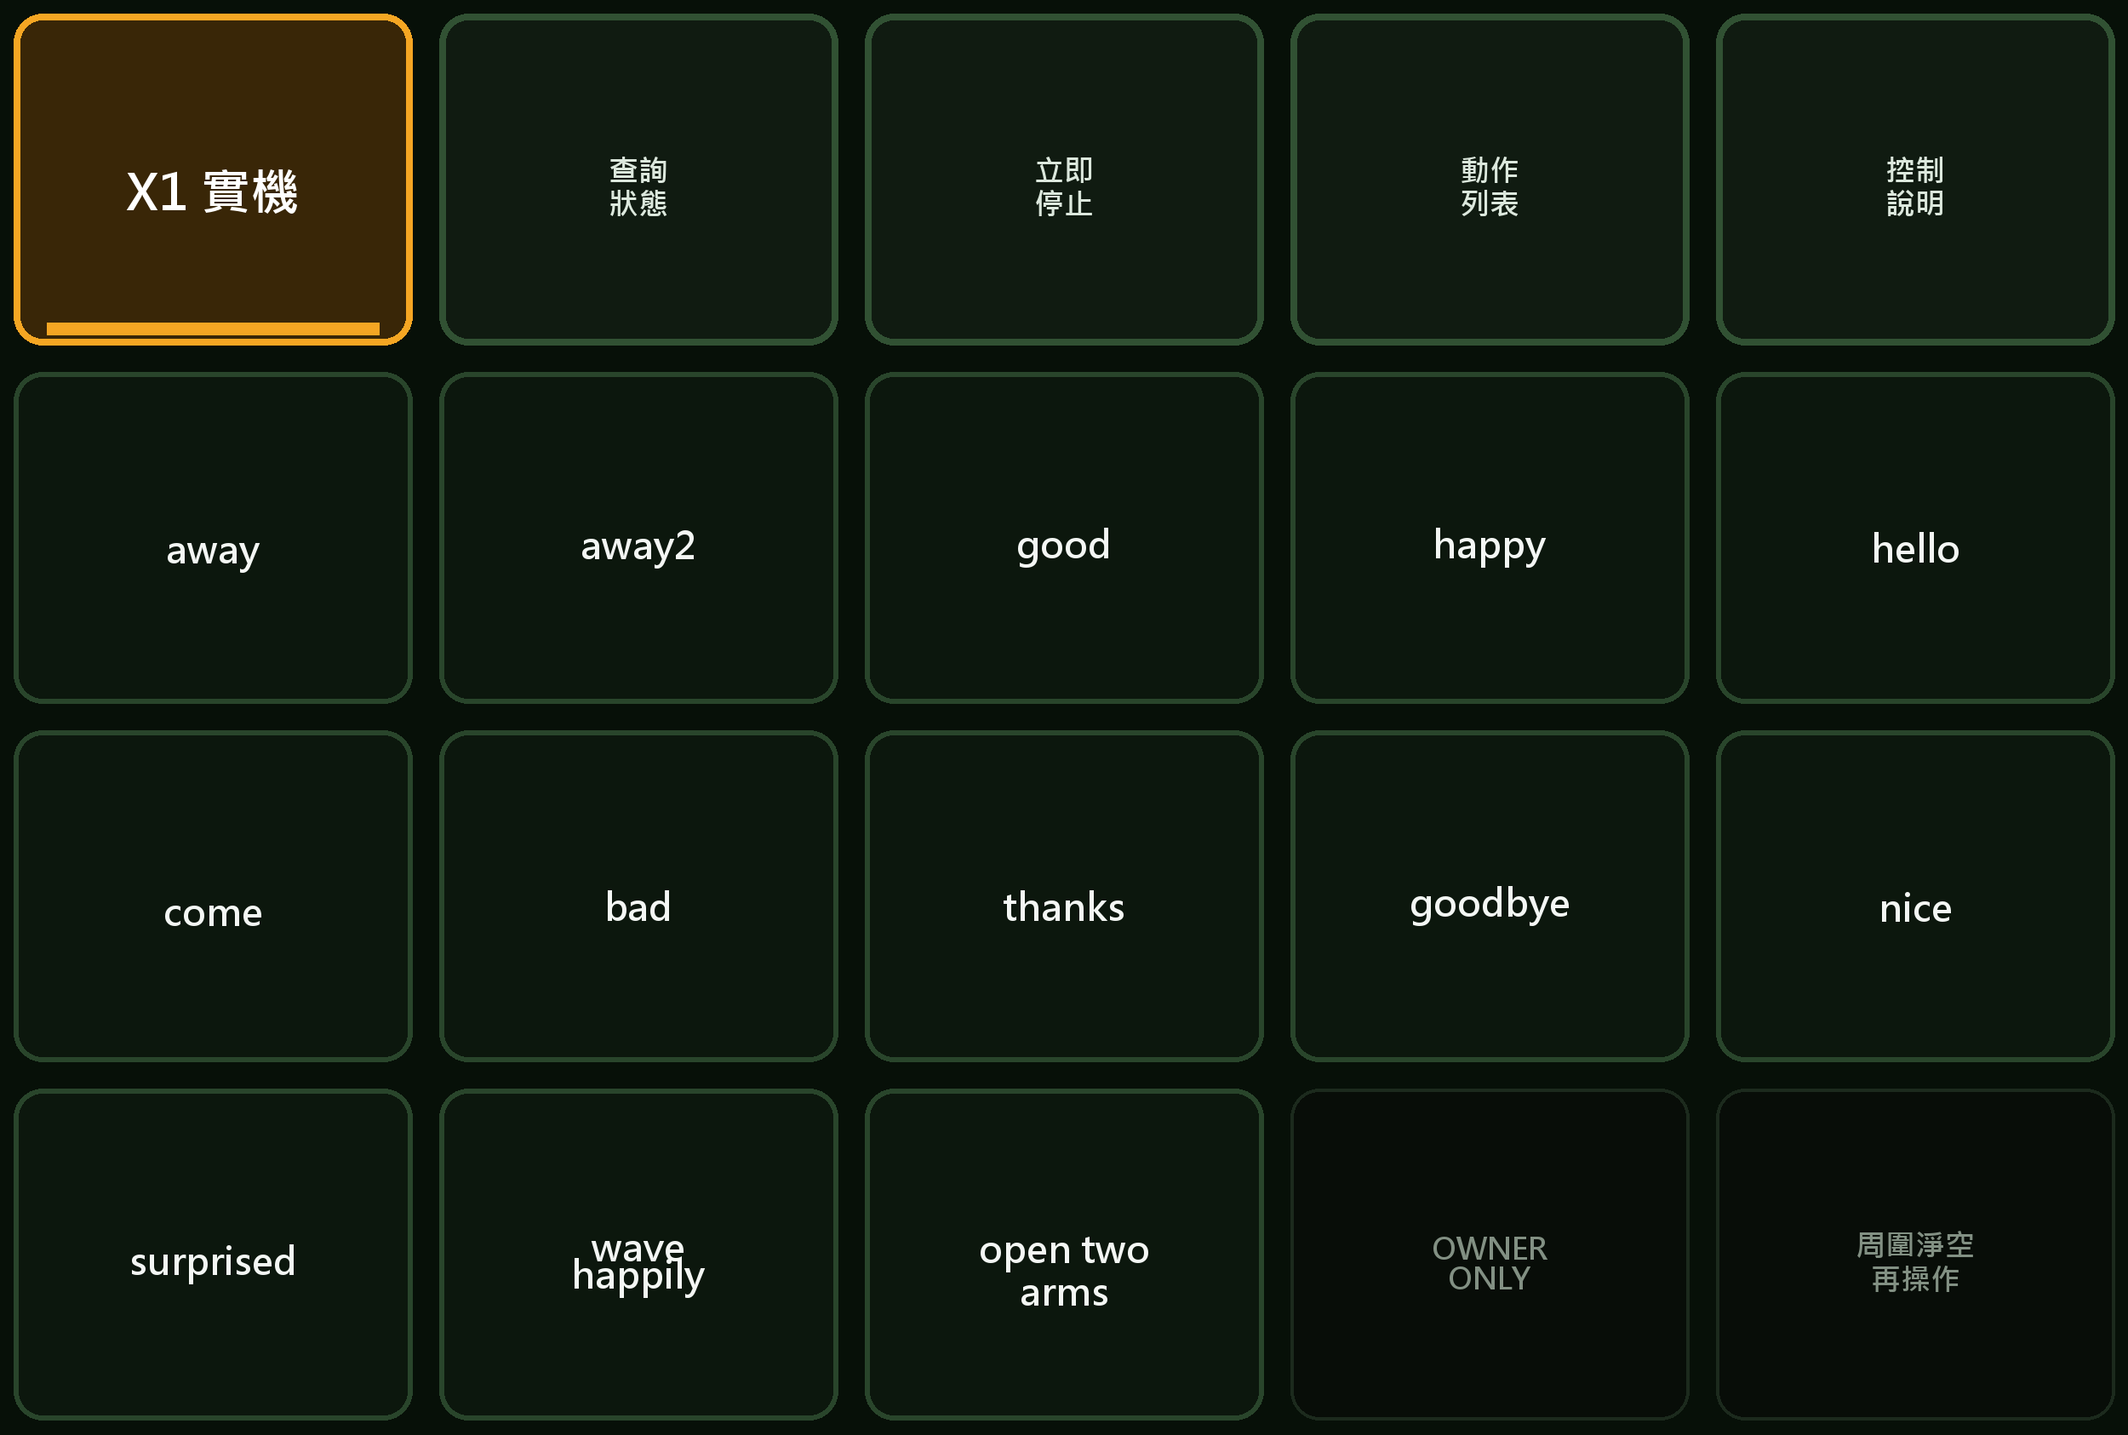
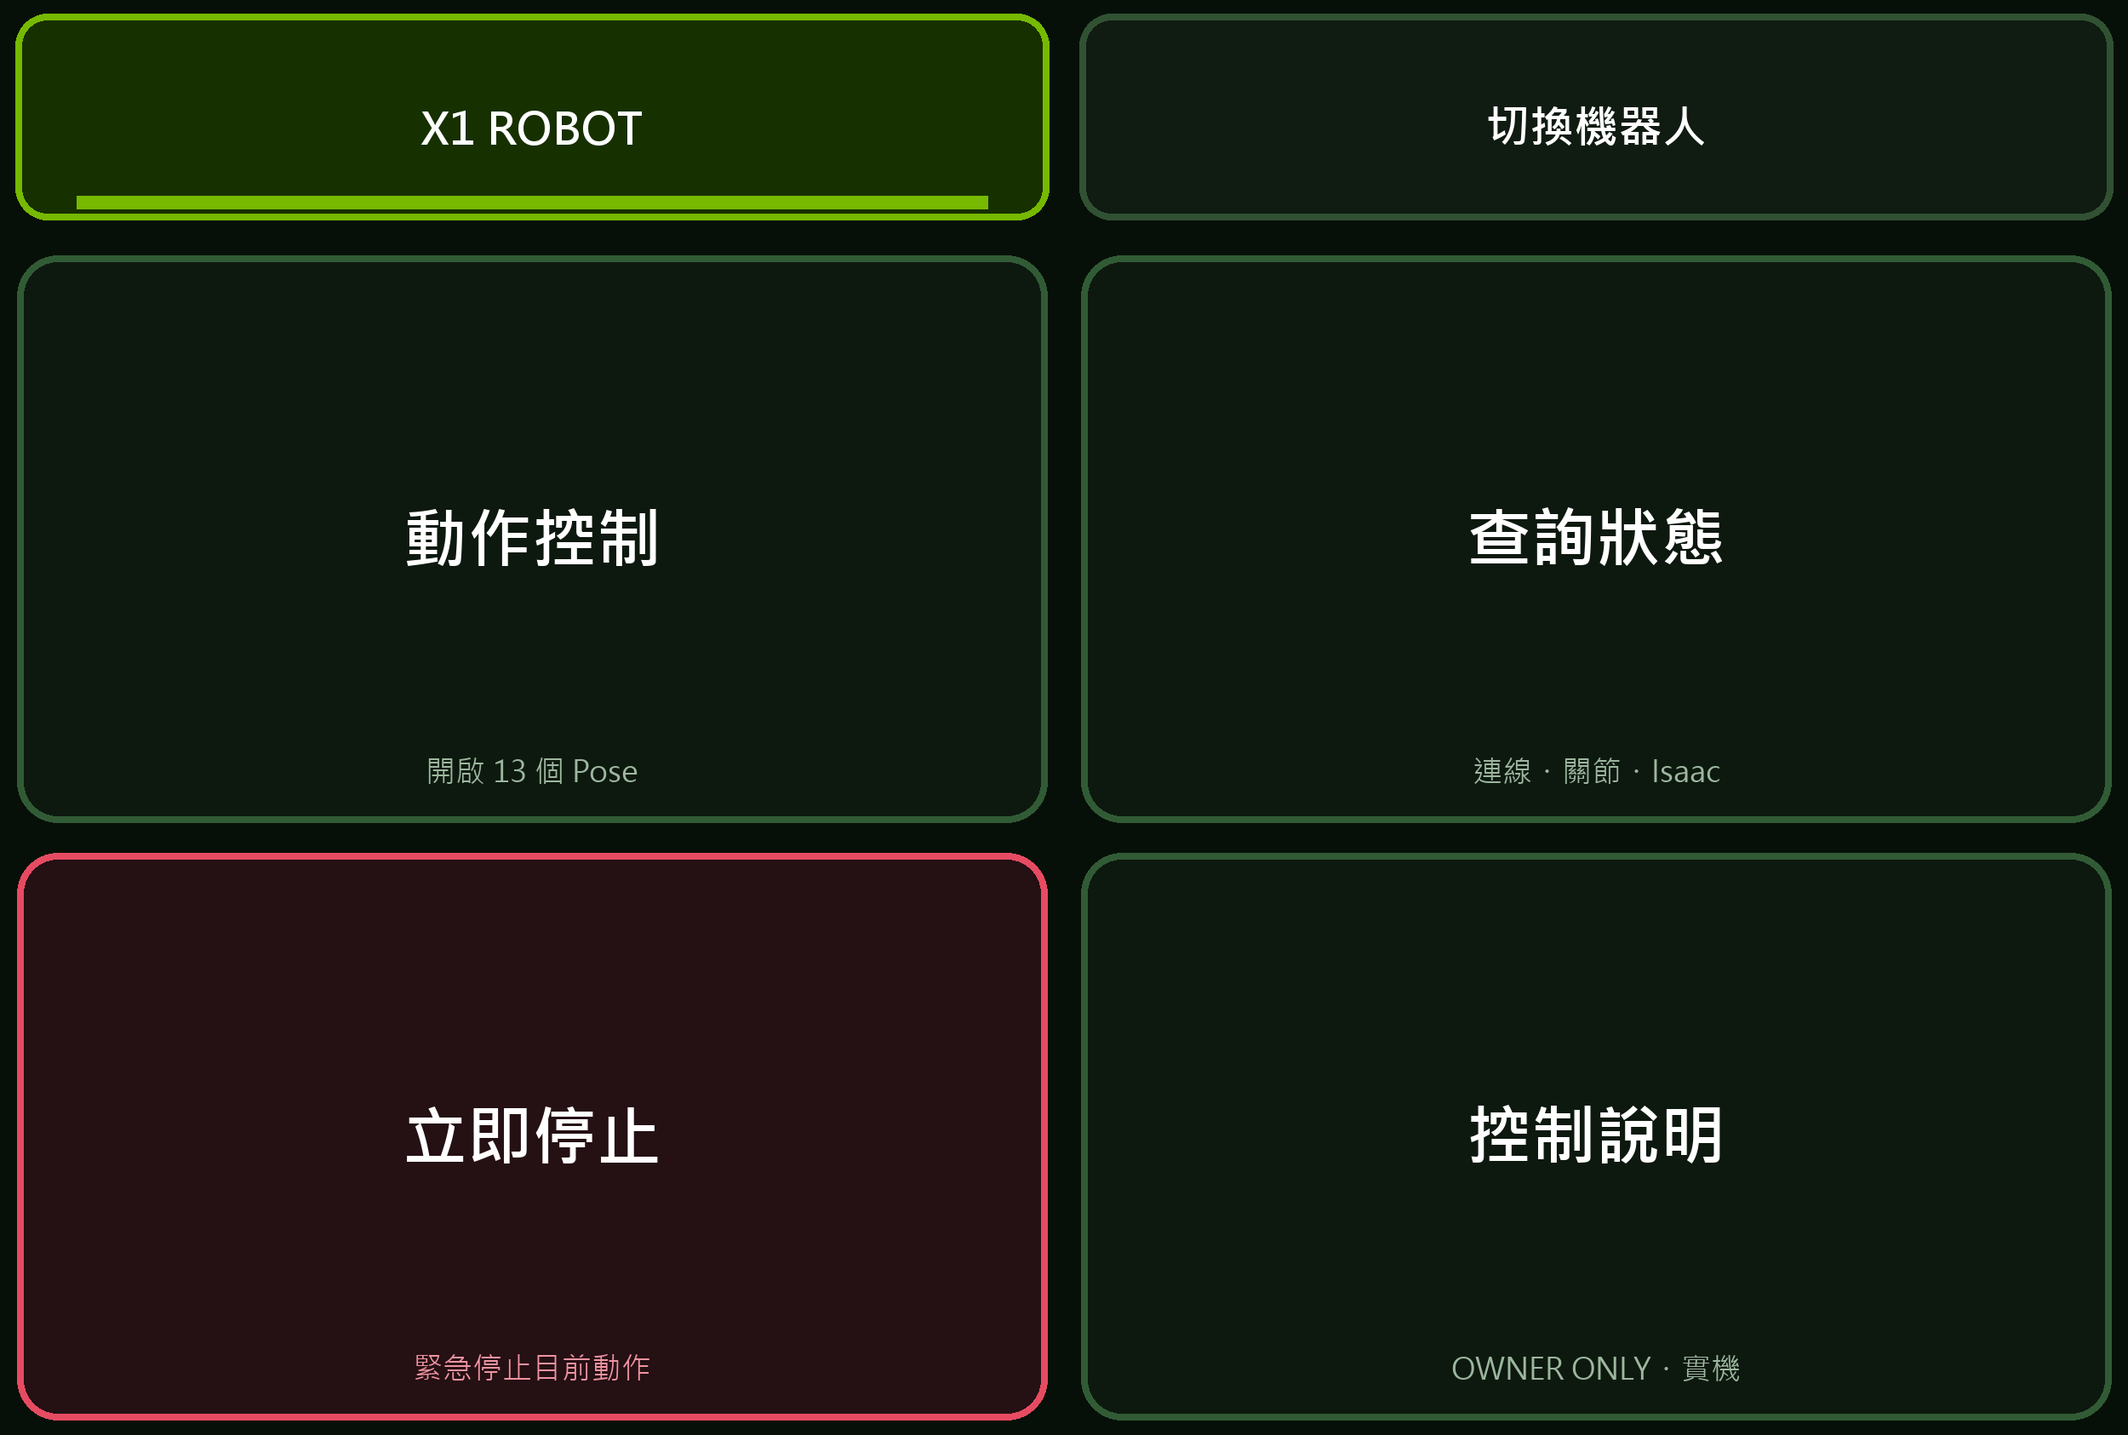
Redesign X1 Rich Menu with large controls

diff --git a/api/shared/line_bot.py b/api/shared/line_bot.py
@@ -994,6 +994,116 @@ def robot_pose_confirmation(robot: str, pose: str) -> dict[str, Any]:
     }
 
 
+def robot_pose_catalog(robot: str, poses: tuple[dict[str, Any], ...]) -> dict[str, Any]:
+    """Present physical poses as large, swipeable Flex cards instead of tiny menu cells."""
+    if robot != "x1" or not 1 <= len(poses) <= 20:
+        raise ValueError("invalid robot pose catalog")
+    validated: list[tuple[str, str]] = []
+    for pose in poses:
+        pose_id = str(pose.get("id", ""))
+        label = str(pose.get("label", pose_id))
+        if not re.fullmatch(r"[a-z0-9-]{1,32}", pose_id) or not 1 <= len(label) <= 20:
+            raise ValueError("invalid robot pose")
+        validated.append((pose_id, label))
+    groups = [validated[index:index + 6] for index in range(0, len(validated), 6)]
+    bubbles = []
+    for page, group in enumerate(groups, start=1):
+        cells = []
+        for pose_id, label in group:
+            cells.append({
+                "type": "box",
+                "layout": "vertical",
+                "height": "96px",
+                "backgroundColor": "#EAF4EA",
+                "cornerRadius": "12px",
+                "paddingAll": "12px",
+                "justifyContent": "center",
+                "action": {
+                    "type": "postback",
+                    "label": label,
+                    "data": f"action=robot_pose&robot={robot}&pose={pose_id}&preview=0",
+                    "displayText": f"X1 實機動作：{pose_id}",
+                },
+                "contents": [{
+                    "type": "text", "text": label, "weight": "bold", "size": "md",
+                    "color": "#163C1A", "align": "center", "wrap": True,
+                }],
+            })
+        rows = []
+        for index in range(0, 6, 2):
+            row_cells = cells[index:index + 2]
+            while len(row_cells) < 2:
+                row_cells.append({
+                    "type": "box", "layout": "vertical", "height": "96px",
+                    "backgroundColor": "#F5F7F5", "cornerRadius": "12px",
+                    "contents": [],
+                })
+            rows.append({
+                "type": "box", "layout": "horizontal", "spacing": "md",
+                "margin": "md" if rows else "none", "contents": row_cells,
+            })
+        bubbles.append({
+            "type": "bubble",
+            "size": "mega",
+            "header": {
+                "type": "box", "layout": "vertical", "backgroundColor": "#102712",
+                "paddingAll": "20px",
+                "contents": [
+                    {"type": "text", "text": "X1 實機動作", "weight": "bold",
+                     "size": "xl", "color": "#FFFFFF"},
+                    {"type": "text", "text": f"POSE {page} / {len(groups)}",
+                     "size": "xs", "color": "#9FCA9F", "margin": "sm"},
+                ],
+            },
+            "body": {
+                "type": "box", "layout": "vertical", "paddingAll": "18px",
+                "contents": rows,
+            },
+            "footer": {
+                "type": "box", "layout": "vertical", "paddingAll": "16px",
+                "contents": [{"type": "text", "text": "點選後仍需再次確認實機動作",
+                              "size": "xs", "color": "#777777", "wrap": True}],
+            },
+        })
+    return {
+        "type": "flex",
+        "altText": "X1 實機動作列表",
+        "contents": {"type": "carousel", "contents": bubbles},
+    }
+
+
+def robot_selector_flex() -> dict[str, Any]:
+    """Robot tab target; more robots can be added without changing the menu layout."""
+    return {
+        "type": "flex",
+        "altText": "選擇機器人",
+        "contents": {
+            "type": "bubble",
+            "size": "mega",
+            "header": {
+                "type": "box", "layout": "vertical", "backgroundColor": "#102712",
+                "paddingAll": "20px",
+                "contents": [{"type": "text", "text": "選擇機器人", "weight": "bold",
+                              "size": "xl", "color": "#FFFFFF"}],
+            },
+            "body": {
+                "type": "box", "layout": "vertical", "paddingAll": "20px",
+                "contents": [
+                    {"type": "text", "text": "目前已啟用", "size": "sm",
+                     "color": "#777777"},
+                    {"type": "button", "style": "primary", "height": "sm",
+                     "color": "#245B2A", "margin": "md",
+                     "action": {"type": "postback", "label": "X1 ROBOT",
+                                "data": "action=robot_control&robot=x1&command=help",
+                                "displayText": "切換到 X1 ROBOT"}},
+                    {"type": "text", "text": "新增其他 robot 後會顯示在這裡。",
+                     "size": "xs", "color": "#999999", "margin": "lg", "wrap": True},
+                ],
+            },
+        },
+    }
+
+
 def _send_messages(
     url: str, value: dict[str, Any], access_token: str, *, retry_key: str = ""
 ) -> None:

diff --git a/scripts/render-line-robot-rich-menu.py b/scripts/render-line-robot-rich-menu.py
@@ -9,13 +9,7 @@ from PIL import Image, ImageDraw, ImageFont
 ROOT = Path(__file__).resolve().parents[1]
 OUTPUT = ROOT / "assets" / "line-rich-menu"
 WIDTH, HEIGHT = 2500, 1686
-COLS, ROWS = 5, 4
-CELL_W, CELL_H = WIDTH // COLS, HEIGHT // ROWS
-POSES = (
-    "away", "away2", "good", "happy", "hello",
-    "come", "bad", "thanks", "goodbye", "nice",
-    "surprised", "wave-happily", "open-two-arms",
-)
+TAB_HEIGHT = 270
 
 
 def font(size: int, *, bold: bool = False) -> ImageFont.FreeTypeFont:
@@ -50,54 +44,45 @@ def center_text(draw: ImageDraw.ImageDraw, box: tuple[int, int, int, int], text:
 def render() -> Path:
     image = Image.new("RGB", (WIDTH, HEIGHT), "#071008")
     draw = ImageDraw.Draw(image)
-    title_font = font(58, bold=True)
-    pose_font = font(44, bold=True)
-    small_font = font(35, bold=True)
-    active = "#f5a623"
-    active_fill = "#392607"
+    tab_font = font(52, bold=True)
+    card_font = font(76, bold=True)
+    subtitle_font = font(35)
 
-    top_labels = (
-        "X1 實機", "查詢\n狀態", "立即\n停止", "動作\n列表", "控制\n說明",
-    )
-    for index, label in enumerate(top_labels):
-        x0, y0 = index * CELL_W, 0
-        x1, y1 = x0 + CELL_W, CELL_H
-        selected = index == 0
-        fill = active_fill if selected else "#101b11"
-        outline = active if selected else "#315133"
+    # Robot tabs. X1 is the active robot; the right tab opens the robot selector.
+    tabs = ((0, WIDTH // 2, "X1 ROBOT", True),
+            (WIDTH // 2, WIDTH, "切換機器人", False))
+    for left, right, label, selected in tabs:
+        fill = "#173000" if selected else "#101b11"
+        outline = "#76b900" if selected else "#315133"
         draw.rounded_rectangle(
-            (x0 + 16, y0 + 16, x1 - 16, y1 - 16), radius=34,
+            (left + 18, 16, right - 18, TAB_HEIGHT - 12), radius=38,
             fill=fill, outline=outline, width=8,
         )
-        center_text(draw, (x0, y0, x1, y1), label,
-                    title_font if index == 0 else small_font,
-                    "#ffffff" if selected else "#dce8dd")
+        center_text(draw, (left, 0, right, TAB_HEIGHT), label, tab_font, "#ffffff")
         if selected:
-            draw.rectangle((x0 + 55, y1 - 42, x1 - 55, y1 - 28), fill=active)
+            draw.rectangle((left + 90, TAB_HEIGHT - 40, right - 90, TAB_HEIGHT - 25),
+                           fill="#76b900")
 
-    for index, pose in enumerate(POSES):
-        row, col = divmod(index, COLS)
-        x0, y0 = col * CELL_W, (row + 1) * CELL_H
-        x1, y1 = x0 + CELL_W, y0 + CELL_H
+    card_top = TAB_HEIGHT + 12
+    card_height = (HEIGHT - card_top) // 2
+    cards = (
+        (0, 0, "動作控制", "開啟 13 個 Pose"),
+        (1, 0, "查詢狀態", "連線・關節・Isaac"),
+        (0, 1, "立即停止", "緊急停止目前動作"),
+        (1, 1, "控制說明", "OWNER ONLY・實機"),
+    )
+    for col, row, title, subtitle in cards:
+        x0, x1 = col * WIDTH // 2, (col + 1) * WIDTH // 2
+        y0, y1 = card_top + row * card_height, card_top + (row + 1) * card_height
+        danger = title == "立即停止"
         draw.rounded_rectangle(
-            (x0 + 16, y0 + 16, x1 - 16, y1 - 16), radius=34,
-            fill="#0c170d", outline="#29452b", width=6,
+            (x0 + 20, y0 + 18, x1 - 20, y1 - 18), radius=48,
+            fill="#251014" if danger else "#0d190f",
+            outline="#e64b62" if danger else "#315b35", width=8,
         )
-        center_text(draw, (x0 + 20, y0 + 20, x1 - 20, y1 - 20),
-                    pose.replace("wave-happily", "wave\nhappily").replace(
-                        "open-two-arms", "open two\narms"
-                    ), pose_font, "#f4f7f4")
-
-    # Two unused cells are intentionally non-tappable and carry safety context.
-    for index, label in ((13, "OWNER\nONLY"), (14, "周圍淨空\n再操作")):
-        row, col = divmod(index, COLS)
-        x0, y0 = col * CELL_W, (row + 1) * CELL_H
-        x1, y1 = x0 + CELL_W, y0 + CELL_H
-        draw.rounded_rectangle(
-            (x0 + 16, y0 + 16, x1 - 16, y1 - 16), radius=34,
-            fill="#080d08", outline="#1c2a1d", width=4,
-        )
-        center_text(draw, (x0, y0, x1, y1), label, small_font, "#829083")
+        center_text(draw, (x0, y0 + 30, x1, y1 - 70), title, card_font, "#ffffff")
+        center_text(draw, (x0, y1 - 145, x1, y1 - 30), subtitle,
+                    subtitle_font, "#f093a1" if danger else "#9db79f")
 
     OUTPUT.mkdir(parents=True, exist_ok=True)
     target = OUTPUT / "x1-control.png"

diff --git a/scripts/deploy-line-robot-rich-menu.py b/scripts/deploy-line-robot-rich-menu.py
@@ -17,17 +17,14 @@ API = "https://api.line.me"
 DATA_API = "https://api-data.line.me"
 ALIAS = "x1-control"
 WIDTH, HEIGHT = 2500, 1686
-POSES = (
-    "away", "away2", "good", "happy", "hello",
-    "come", "bad", "thanks", "goodbye", "nice",
-    "surprised", "wave-happily", "open-two-arms",
-)
+TAB_HEIGHT = 270
 
 
-def bounds(col: int, row: int) -> dict[str, int]:
-    x0, x1 = round(col * WIDTH / 5), round((col + 1) * WIDTH / 5)
-    y0, y1 = round(row * HEIGHT / 4), round((row + 1) * HEIGHT / 4)
-    return {"x": x0, "y": y0, "width": x1 - x0, "height": y1 - y0}
+def area(x: int, y: int, width: int, height: int, data: str) -> dict[str, object]:
+    return {
+        "bounds": {"x": x, "y": y, "width": width, "height": height},
+        "action": postback(data),
+    }
 
 
 def postback(data: str) -> dict[str, str]:
@@ -35,32 +32,22 @@ def postback(data: str) -> dict[str, str]:
 
 
 def menu_payload() -> dict[str, object]:
+    content_top = TAB_HEIGHT
+    content_height = HEIGHT - content_top
+    half_width, half_height = WIDTH // 2, content_height // 2
     areas: list[dict[str, object]] = [
-        {
-            "bounds": bounds(1, 0),
-            "action": postback("action=robot_control&robot=x1&command=status"),
-        },
-        {
-            "bounds": bounds(2, 0),
-            "action": postback("action=robot_control&robot=x1&command=stop"),
-        },
-        {
-            "bounds": bounds(3, 0),
-            "action": postback("action=robot_control&robot=x1&command=list"),
-        },
-        {
-            "bounds": bounds(4, 0),
-            "action": postback("action=robot_control&robot=x1&command=help"),
-        },
+        area(half_width, 0, WIDTH - half_width, TAB_HEIGHT,
+             "action=robot_control&robot=x1&command=robots"),
+        area(0, content_top, half_width, half_height,
+             "action=robot_control&robot=x1&command=list"),
+        area(half_width, content_top, WIDTH - half_width, half_height,
+             "action=robot_control&robot=x1&command=status"),
+        area(0, content_top + half_height, half_width, HEIGHT - content_top - half_height,
+             "action=robot_control&robot=x1&command=stop"),
+        area(half_width, content_top + half_height, WIDTH - half_width,
+             HEIGHT - content_top - half_height,
+             "action=robot_control&robot=x1&command=help"),
     ]
-    for index, pose in enumerate(POSES):
-        row, col = divmod(index, 5)
-        areas.append({
-            "bounds": bounds(col, row + 1),
-            "action": postback(
-                f"action=robot_pose&robot=x1&pose={pose}&preview=0"
-            ),
-        })
     return {
         "size": {"width": WIDTH, "height": HEIGHT},
         "selected": True,

diff --git a/api/tests/test_line_rich_menu.py b/api/tests/test_line_rich_menu.py
@@ -17,19 +17,31 @@ class LineRobotRichMenuTests(unittest.TestCase):
     def test_menu_has_owner_safe_physical_controls(self):
         payload = rich_menu.menu_payload()
         self.assertEqual({"width": 2500, "height": 1686}, payload["size"])
-        self.assertEqual(17, len(payload["areas"]))
-        pose_actions = [
-            area["action"]["data"] for area in payload["areas"]
-            if "action=robot_pose" in area["action"]["data"]
-        ]
-        self.assertEqual(13, len(pose_actions))
-        self.assertTrue(all("preview=0" in value for value in pose_actions))
-        self.assertTrue(all("confirmed=1" not in value for value in pose_actions))
+        self.assertEqual(5, len(payload["areas"]))
+        actions = [area["action"]["data"] for area in payload["areas"]]
+        self.assertIn("action=robot_control&robot=x1&command=robots", actions)
+        self.assertIn("action=robot_control&robot=x1&command=list", actions)
+        self.assertFalse(any("action=robot_pose" in value for value in actions))
 
     def test_dry_run_validates_generated_asset(self):
         result = rich_menu.deploy("", "", dry_run=True)
         self.assertTrue(result["ok"])
-        self.assertEqual(17, result["areas"])
+        self.assertEqual(5, result["areas"])
+
+    def test_pose_catalog_uses_large_swipeable_cards(self):
+        from shared import line_bot, line_openclaw
+
+        message = line_bot.robot_pose_catalog("x1", line_openclaw.X1_POSES)
+        bubbles = message["contents"]["contents"]
+        self.assertEqual("flex", message["type"])
+        self.assertEqual(3, len(bubbles))
+        cells = [
+            cell for bubble in bubbles for row in bubble["body"]["contents"]
+            for cell in row["contents"] if cell.get("action")
+        ]
+        self.assertEqual(13, len(cells))
+        self.assertTrue(all("preview=0" in item["action"]["data"] for item in cells))
+        self.assertTrue(all("confirmed=1" not in item["action"]["data"] for item in cells))
 
 
 if __name__ == "__main__":

diff --git a/api/function_app.py b/api/function_app.py
@@ -250,13 +250,18 @@ def line_webhook(req: func.HttpRequest) -> func.HttpResponse:
                     command = values.get("command", [""])[0].lower()
                     if not inference_hub.is_line_owner(user_id):
                         text = "這個 X1 動作控制只允許已設定的主人使用。"
-                    elif robot != "x1" or command not in {"status", "stop", "list", "help"}:
+                    elif robot != "x1" or command not in {"status", "stop", "list", "help", "robots"}:
                         text = "這個機器人控制指令不在允許清單中。"
                     elif command == "list":
                         line_bot.reply_messages(
                             reply_token,
-                            [line_bot.robot_pose_quick_reply("x1", line_openclaw.X1_POSES)],
+                            [line_bot.robot_pose_catalog("x1", line_openclaw.X1_POSES)],
                             access_token,
+                        )
+                        continue
+                    elif command == "robots":
+                        line_bot.reply_messages(
+                            reply_token, [line_bot.robot_selector_flex()], access_token
                         )
                         continue
                     elif command == "help":
